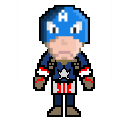
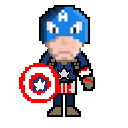
Getting close to 200..

Changed region(s): [[0.125, 0.4688, 0.4688, 0.8125]]

diff --git a/src/GUI/BoardView.java b/src/GUI/BoardView.java
@@ -61,7 +61,7 @@ public class BoardView extends JLayeredPane {
 	
 	JLabel champion,label,label2,leader,leader2;
 	JProgressBar bar;
-	boolean haslead;
+	boolean haslead,america=false;
 	Champion first;
 	//JLayeredPane panel = new JLayeredPane();
 	JLayeredPane panel = this;
@@ -82,7 +82,25 @@ public class BoardView extends JLayeredPane {
 	int barIndex;
 	Boolean firstBarDraw = true;
 	int xPos=500;
-	int finalY;
+	int finalY,xfpPos,yfPos;
+	public boolean isAmerica() {
+		return america;
+	}
+	public void setAmerica(boolean america) {
+		this.america = america;
+	}
+	public int getXfpPos() {
+		return xfpPos;
+	}
+	public void setXfpPos(int xfpPos) {
+		this.xfpPos = xfpPos;
+	}
+	public int getYfPos() {
+		return yfPos;
+	}
+	public void setYfPos(int yfPos) {
+		this.yfPos = yfPos;
+	}
 	int yPos =600;
 	int finalX;
 	Image champImage;
@@ -90,6 +108,8 @@ public class BoardView extends JLayeredPane {
 	int transparent,transparent2=360;
 	ImageIcon image = new ImageIcon("assets/characters/128/Untitled22_20220607135427.png");
 	Image Joey = image.getImage();
+	ImageIcon cap = new ImageIcon("assets/characters/new64/Captain America2.png");
+	Image captain = cap.getImage();
 	ImageIcon image2 = new ImageIcon("assets/characters/128/Untitled22_20220607135443.png");
 	Image Joey2 = image2.getImage();
 	ImageIcon image3 = new ImageIcon("assets/characters/128/Untitled22_20220607135453.png");
@@ -1475,6 +1495,8 @@ public class BoardView extends JLayeredPane {
 //			GradientPaint gradient = new GradientPaint(0,0,Color.cyan,1366,768,Color.blue);
 //			g2.setPaint(gradient);
 //			g2.fillRect(0, 0, 1366, 768);
+			
+			//if(america) g2.drawImage(captain, xfpPos, yfPos, null);
 			//frame.pack();
 			g2.setColor(Color.black);
 			//g2.drawRoundRect( 465, 570, 175, 70, 10, 10);
